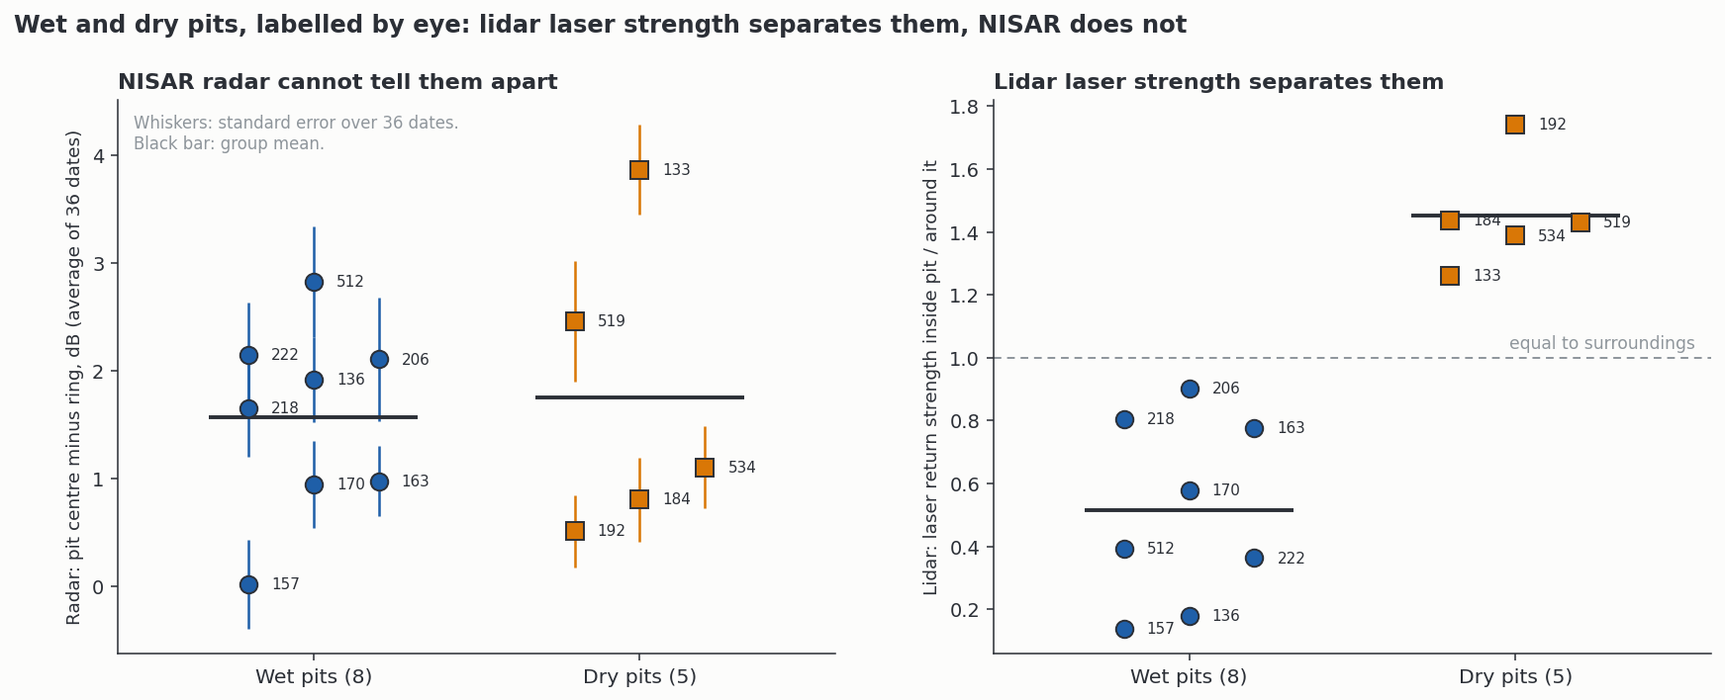
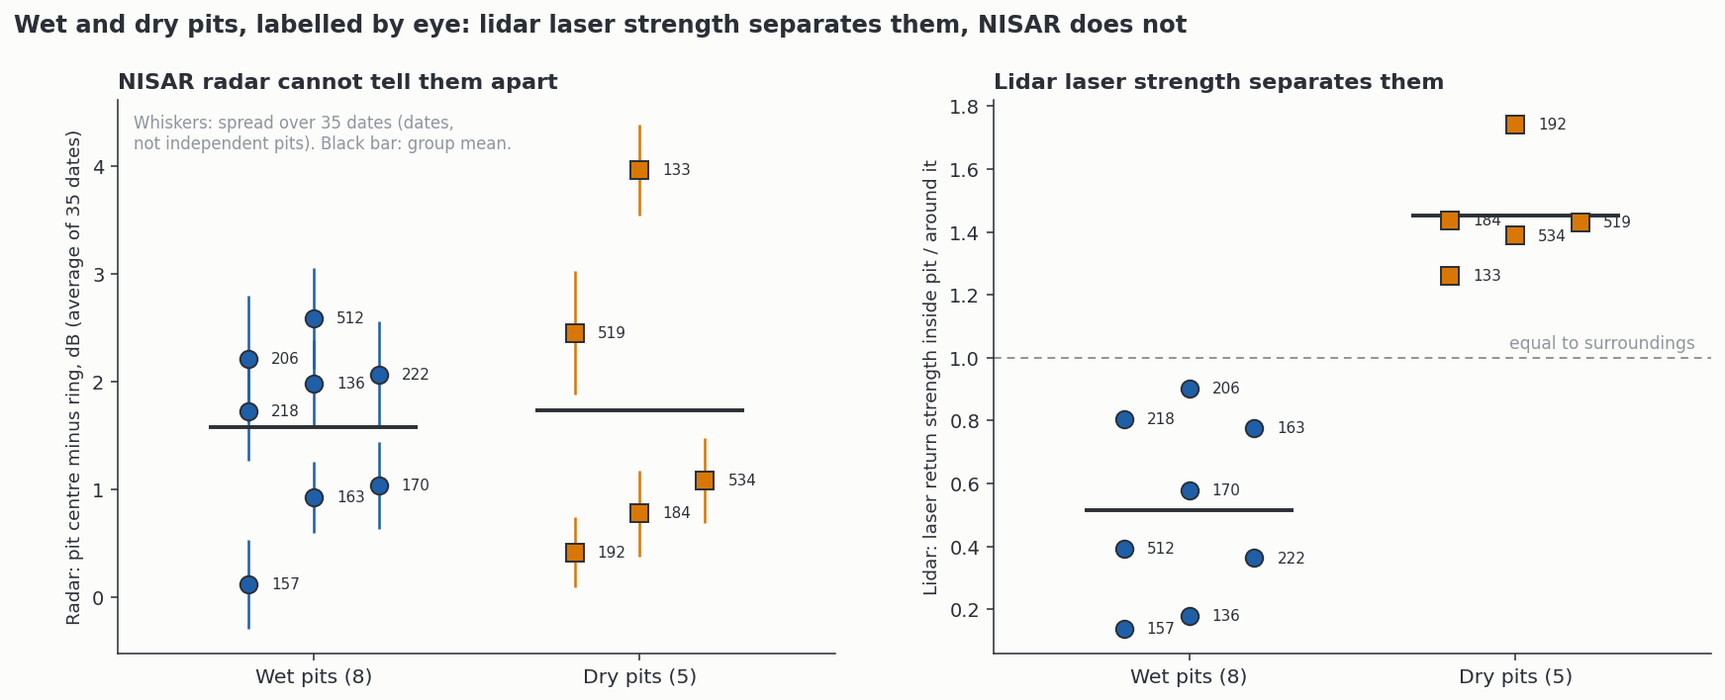
nisar: fixes from the 2026-11-09 outside review (bad-date readers, overstated wording, held-out interval)

diff --git a/nisar_writeup/_make_figures.py b/nisar_writeup/_make_figures.py
@@ -32,6 +32,13 @@ from rasterio.windows import from_bounds
 from scipy.stats import norm
 from shapely.geometry import box
 
+# Granules dropped from every stack. Same set as BAD_DATES in notebooks/wellsight_v2/_nisar_area.py.
+BAD_DATES = {("2026-07-22", 26), ("2026-09-08", 26)}
+
+
+def is_bad(date: str, track: int) -> bool:
+    return (str(date)[:10], int(track)) in BAD_DATES
+
 matplotlib.use("Agg")
 ROOT = Path(__file__).resolve().parents[1]
 OUT = ROOT / "nisar_writeup" / "figures"
@@ -83,7 +90,7 @@ def fig_ideas():
         ("2  A pad is a scar", "A cleared, levelled pad should return a different amount of energy than forest.",
          "Pads read slightly darker, but only because they are clearings. The effect did not survive a location check.", "weak"),
         ("3  Seasons differ", "Bare trees in winter, leaves in summer. A pit might change differently.",
-         "A change of about +0.2 dB. That is far smaller than the speckle in a single scene.", "weak"),
+         "About +0.2 dB against matched decoys within a season. The season-to-season change was not significant.", "weak"),
         ("4  Old wells move", "Radar phase can sense millimetres of ground motion between passes.",
          "Pit coherence was +0.0001 higher than decoys. Not one of 282 wells was flagged as moving.", "none"),
         ("5  Wet pits are dark", "Calm water reflects radar away from the satellite, so it should look dark.",
@@ -125,7 +132,7 @@ def fig_ideas():
         b.plot([0.03], [0.02], marker=mk, color=col, ms=9, mec=INK, mew=0.8, clip_on=False)
         b.text(0.09, 0.02, txt, fontsize=9, va="center", fontweight="bold")
     fig.subplots_adjust(left=0.02, right=0.99, top=0.88, bottom=0.03)
-    fig.suptitle("Five things we hoped the radar would show. None held up.", x=0.02, ha="left", fontsize=14, fontweight="bold")
+    fig.suptitle("Five things we hoped the radar would show. None was demonstrated.", x=0.02, ha="left", fontsize=14, fontweight="bold")
     save(fig, "nisar_five_ideas_9t.png")
 
 
@@ -192,6 +199,11 @@ def fig_views():
     axes[1].set_title("Lidar hillshade, 2019\n0.5 m pixels", fontsize=10.5)
     # NISAR
     files = sorted(glob.glob(str(ROOT / "data/9t/derived/nisar_slc_lidar_5m/nisar_slc_lidar_*_9t.tif")))
+    # nisar_slc_lidar_<yyyymmdd>_t<track><A|D>_9t.tif; drop the flagged granules
+    def _key(f):
+        p = Path(f).stem.split("_")
+        return f"{p[3][:4]}-{p[3][4:6]}-{p[3][6:]}", int(p[4][1:-1])
+    files = [f for f in files if not is_bad(*_key(f))]
 
     def hhdb(f):
         with rasterio.open(f) as s:
@@ -426,7 +438,7 @@ def fig_gain():
     ax.axvline(0, color=INK, lw=1.0)
     ax.axvline(0.05, color=ORANGE, lw=2.0, ls=(0, (5, 3)))
     ax.text(0.052, len(rows) - 0.35, "pre-set bar:\n+0.05", color=INK, fontsize=9.5, ha="left", va="bottom", fontweight="bold")
-    ax.text(0.0, len(rows) - 0.35, "no gain", fontsize=9.5, ha="center", va="bottom")
+    ax.text(0.0, len(rows) - 0.35, "zero", fontsize=9.5, ha="center", va="bottom")
     ax.set_xlim(-0.075, 0.13)
     ax.set_ylim(-0.7, len(rows) + 0.6)
     ax.set_yticks([])
@@ -472,13 +484,15 @@ def fig_r2():
 # ---------------------------------------------------------------- 11. wet vs dry
 def fig_wet_dry():
     d = pd.read_csv(ROOT / "data/9t/results/nisar/nisar_pit_wet_dry_db_9t.csv")
+    d = d[[not is_bad(a, b) for a, b in zip(d.date, d.track)]].dropna(subset=["db"])
+    n_dates = d.groupby(["date", "track"]).ngroups
     w = pd.read_csv(ROOT / "data/9t/results/pit/pit_inside_wet_intensity_9t.csv").set_index("pit_inside_id")
     g = d.groupby(["label", "pit"]).db.agg(["mean", "std", "count"]).reset_index()
     g["se"] = g["std"] / np.sqrt(g["count"])
     g["lidar"] = g.pit.map(w.int_ratio)
     fig, axes = plt.subplots(1, 2, figsize=(12.5, 5.2))
     rng = np.random.default_rng(3)
-    for ax, col, ylab, title in [(axes[0], "mean", "Radar: pit centre minus ring, dB (average of 36 dates)", "NISAR radar cannot tell them apart"),
+    for ax, col, ylab, title in [(axes[0], "mean", f"Radar: pit centre minus ring, dB (average of {n_dates} dates)", "NISAR radar cannot tell them apart"),
                                   (axes[1], "lidar", "Lidar: laser return strength inside pit / around it", "Lidar laser strength separates them")]:
         for k, lab in enumerate(["wet", "dry"]):
             s = g[g.label == lab]
@@ -500,7 +514,7 @@ def fig_wet_dry():
         ax.set_title(title, fontsize=11.5)
     axes[1].axhline(1.0, color=GREY, lw=1.0, ls=(0, (4, 3)))
     axes[1].text(1.55, 1.03, "equal to surroundings", ha="right", fontsize=8.8, color=GREY)
-    axes[0].text(-0.55, axes[0].get_ylim()[1] * 0.97, "Whiskers: standard error over 36 dates.\nBlack bar: group mean.", fontsize=8.5, color=GREY, va="top")
+    axes[0].text(-0.55, axes[0].get_ylim()[1] * 0.97, f"Whiskers: spread over {n_dates} dates (dates,\nnot independent pits). Black bar: group mean.", fontsize=8.5, color=GREY, va="top")
     fig.suptitle("Wet and dry pits, labelled by eye: lidar laser strength separates them, NISAR does not", x=0.01, ha="left", fontsize=12.5, fontweight="bold", y=1.0)
     fig.subplots_adjust(left=0.07, right=0.99, wspace=0.22)
     save(fig, "nisar_wet_vs_dry_pits_9t.png")
@@ -514,13 +528,13 @@ def fig_timeline():
         ("30 Sep", "31-date stack at 5 m, pads and pits against decoys", "n", "Result flips with a few metres of shift. Seasonal change adds nothing."),
         ("5 Oct", "Interferograms at 506 pits", "n", "Coherence +0.0001. Motion noise 7.5 mm for pits and decoys alike."),
         ("7 Oct", "Steel, pad change, slope motion", "n", "Wells 0.1 dB brighter than decoys. No well flagged as moving."),
-        ("9 to 13 Oct", "Radar placed 10 m off the lidar. Traced and fixed.", "f", "Error 10 m down to about 1 m. 46 of 48 blocks within 2.5 m."),
+        ("9 to 13 Oct", "Radar placed 10 m off the lidar. Traced and fixed.", "f", "Error 10 m down to about 1 m. 46 of 48 blocks within 2.5 m of the lidar simulation."),
         ("13 to 14 Oct", "All tests re-run on the corrected stack", "w", "Pad darkening gone. Pit leads (+0.2 dB) remain but are small."),
         ("19 to 21 Oct", "Review fixes, 40-decoy swap test, wells snapped to lidar", "n", "Pit leads of +0.2 dB held. Wells 0.7% against 0.9% for controls."),
         ("21 Oct", "Bright steady targets across tracks", "f", "Stable objects repeat 6 to 8 times chance. Chips on 28 Oct: buildings and bridges, not wells."),
         ("23 Oct", "Warren swath, 684 wells", "n", "Wells 3.9% against 5.2% for random pixels."),
         ("26 Oct", "303 radar features, then an outside audit", "n", "Early 0.71 to 0.88 was mostly place. Corrected: 0.48 to 0.64."),
-        ("27 Oct", "Follow-ups: where lidar is weak, against Sentinel-2", "n", "No gain over lidar or Sentinel-2. Radar tracks vegetation type."),
+        ("27 Oct", "Follow-ups: where lidar is weak, against Sentinel-2", "n", "No demonstrated gain over lidar or Sentinel-2. Radar tracks vegetation type."),
         ("28 Oct", "Leaf-off and snow dates", "f", "Only 3 NISAR dates are bare and snow-free. None in Feb to May."),
         ("29 Oct to 1 Nov", "Sentinel-1 early April, wet pits, the box", "n", "No bright steady return. Wet and dry pits overlap."),
     ]

diff --git a/nisar_writeup/_make_checkpoint_slides.py b/nisar_writeup/_make_checkpoint_slides.py
@@ -96,7 +96,7 @@ def slide1(s) -> None:
     set_para(ps[1], "Tile 9t in Venango County, PA. 20 km² of hardwood forest with 650 mapped well pads and "
                     "506 pits from 150 years of oil drilling.")
     set_para(ps[3], "Any rise or fall in HH or HV backscatter, or a drop in coherence, at pads and pits compared "
-                    "with matched forest nearby. It must be larger than the date-to-date speckle scatter.")
+                    "with matched forest nearby. Speckle is large on one date, so a small signal needs many repeat dates.")
     set_para(ps[5], "The 24 cm L-band wave passes through much of the canopy. Clearings, water and metal change "
                     "the echo, and 12-day repeats let speckle be averaged out.")
     notes(s, "About 1 minute 40 seconds. Read the question. The site is tile 9t in Venango County, 4.5 by 4.5 km of "
@@ -126,7 +126,7 @@ def slide2(s) -> None:
     notes(s, "About 1 minute 40 seconds. L-band because it is the band that best sees under leaves, and NISAR is "
              "the first free L-band mission with this revisit. I use the GSLC product, and the raw RSLC so I can "
              "place the image on lidar heights myself. Three tracks cover the tile, two ascending and one "
-             "descending, at 39 to 47 degrees incidence. 37 usable dates from October 2025 to October 2026. I "
+             "descending, at 39 to 47 degrees incidence. 37 dates delivered from October 2025 to October 2026, 35 usable after dropping an empty and a misplaced one. I "
              "check everything against our lidar maps of pads and pits, the state well records, and Sentinel-1 and "
              "Sentinel-2.")
 
@@ -155,7 +155,7 @@ def slide3(s) -> None:
               "Map x and y alone, or fake pads, score as high as the radar",
               "Decoys within 1.5 km and a placebo test"),
              ("Target smaller than a pixel. Single-look speckle on each date",
-              "Pit contrast below the date-to-date scatter",
+              "Pit contrast smaller than one-date speckle",
               "Average many dates. Use lidar intensity for wet pits")]
     tbl = shape(s, "Table 13").table
     for i, row in enumerate(risks, start=1):

diff --git a/notebooks/wellsight_v2/s5_eval/_nisar_signal_checks_9t.py b/notebooks/wellsight_v2/s5_eval/_nisar_signal_checks_9t.py
@@ -109,6 +109,8 @@ def lag_corr(z, mask_blocks, axis, lag):
 
 def main():
     idx = pd.read_csv(sorted(glob.glob(str(C.A.RSLC / "*index*.csv")))[0])
+    # same exclusions as every other stack (review 2026-11-09 found 2026-09-08 still read here)
+    idx = idx[[(str(d), int(t)) not in C.A.BAD_DATES for d, t in zip(idx.date, idx.track)]]
     rows = []
     for _, r in idx.iterrows():
         with h5py.File(C.A.RSLC / r.file) as h:

diff --git a/nisar_writeup/README.md b/nisar_writeup/README.md
@@ -24,7 +24,7 @@ This is the plain-language story of every NISAR test in the project. It says wha
 
 **The product.** We used the Level-2 GSLC product. Each pixel holds a complex number, so it carries both amplitude (strength) and phase (a fine distance measure). The pixels sit on a 5 m grid.
 
-**A pixel is not a clean 5 m measurement.** We measured the real sharpness of the images. The smallest thing they can separate is about 3.9 m by 5.7 m. Neighbouring pixels are correlated at 0.38. So a 5 m pixel is a blurred average over a patch a little bigger than itself.
+**A pixel is not a clean 5 m measurement.** We measured the real sharpness of the images. The smallest thing they can separate is about 3.9 m in slant range (about 5.3 to 6.2 m on the ground at 39 to 47 degrees incidence) by 5.7 m along track. Both come from bright uncontrolled scatterers, so treat them as rough. Neighbouring pixels are correlated at 0.38. So a 5 m pixel is a blurred average over a patch a little bigger than itself.
 
 **Speckle.** Radar echoes from many small scatterers add up with random phase. The result is a grainy image. A single pixel of ordinary ground varies from date to date, even though the ground has not changed. Any real signal must be bigger than that, or it must be averaged over many dates.
 
@@ -42,11 +42,11 @@ This figure is the most direct picture of the problem. The leaf-off aerial photo
 
 ## 2. The data we had
 
-We used NISAR GSLC scenes over tile 9t. The first was taken on 2025-10-28 and the last on 2026-10-14. That is 37 dates across three tracks.
+We used NISAR GSLC scenes over tile 9t. The first was taken on 2025-10-28 and the last on 2026-10-14. That is 37 dates across three tracks. 35 are usable after dropping one empty and one misplaced granule. The lidar-placed stack used for the corrected classifiers has 33 (8, 11 and 14 on tracks 26, 90 and 162), because two October dates came later.
 
 - **Beta products.** 11 dates from October 2025 to January 2026. Beta means the calibration was not finished.
-- **Provisional products.** 26 dates from June to October 2026. These are calibrated but not yet validated.
-- **Dropped.** Two track-26 granules (2026-07-22 and 2026-09-08) are misplaced or empty. We removed them everywhere.
+- **Provisional products.** 26 dates from June to October 2026. ASF describes these as fully calibrated and partly validated.
+- **Dropped.** Two track-26 granules (2026-07-22 and 2026-09-08) are misplaced or empty. The analysis stack and the corrected classifiers drop both. An outside review (2026-11-09) found three readers that still kept 2026-09-08: the wet/dry pit table, the averaged image in the three-sensor figure, and the signal-quality table. All three now drop it. The wet/dry conclusion does not change.
 
 Each GSLC file is about 22.6 GB. We did not download whole files. We read only the part that covers our tile, using HTTP range requests. Each saved window is about 9 MB.
 
@@ -81,7 +81,7 @@ L-band barely separates open ground from closed canopy at 5 m in our own control
 
 ![Placement fix](figures/nisar_placement_fix_9t.png)
 
-**The result.** The typical error fell from about 10 m to about 1 m. With a model of the forest echo, 46 of 48 blocks sit within 2.5 m on this tile. On the second tile (613590) it is 31 of 48, and the worst block is 29.7 m out. We checked the constants on half the blocks and tested them on the other half. All held.
+**The result.** The typical error fell from about 10 m to about 1 m. With a model of the forest echo, 46 of 48 blocks sit within 2.5 m on this tile. On the second tile (613590) it is 31 of 48, and the worst block is 29.7 m out. We fitted the constants on half the blocks and tested them on the other half. On 9t every held-out half passed. On 613590 they passed 6/8 and 3/8 on track 26, 5/8 and 5/8 on track 90, and 4/8 and 5/8 on track 162.
 
 **A limit.** The lidar simulation both supplies the offsets and scores the match. So these counts measure agreement with that simulation. They are not an independent measure of position. The independent test, with steady bright points and wells, found no peak, so position is not independently confirmed on either tile.
 
@@ -111,7 +111,7 @@ L-band barely separates open ground from closed canopy at 5 m in our own control
 
 **The idea.** Trees are bare in winter and leafy in summer. A pit might change by a different amount.
 
-**What we found.** We compared each pit with 40 matched decoy spots and used a swap test that keeps whole time series together. Pits showed a leaf-off HH fall of +0.25 dB and a leaf-on HV rise of +0.19 dB on tile 9t (p below 0.001). These are tiny next to the date-to-date speckle scatter. The pattern did not hold in the same way in the other areas. We treat it as a lead and not as a detection.
+**What we found.** We compared each pit with 40 matched decoy spots and used a swap test that keeps whole time series together. Within the leaf-off fall season, pits were +0.25 dB brighter in HH than their decoys. Within the leaf-on season they were +0.19 dB brighter in HV (swap test p below 0.001 for both, tile 9t). These are pit-versus-decoy contrasts inside one season, not a seasonal change. The tests of change between seasons were not significant (HH -0.10 dB, p 0.13; HV +0.05 dB, p 0.47). Season is also tangled with processing level (all winter dates are beta, all summer dates provisional), track and snow. A small contrast can sit below one-date speckle and still be detectable over many dates, so speckle alone does not rule it out. The pattern did not hold in the same way in the other areas. We treat it as a lead and not as a detection.
 
 ### 4.4 Old wells move
 
@@ -131,9 +131,9 @@ L-band barely separates open ground from closed canopy at 5 m in our own control
 
 ![Wet against dry](figures/nisar_wet_vs_dry_pits_9t.png)
 
-**What we found.** NISAR gave +1.57 dB for wet pits and +1.75 dB for dry. The groups overlap completely. The lidar ratio was 0.14 to 0.90 for wet pits and 1.26 to 1.74 for dry. Those two ranges do not touch.
+**What we found.** NISAR gave +1.58 dB for wet pits and +1.74 dB for dry, after dropping the flagged date (+1.57 and +1.75 before). The groups overlap completely. The lidar ratio was 0.14 to 0.90 for wet pits and 1.26 to 1.74 for dry. Those two ranges do not touch.
 
-**Limits.** There are only 13 pits and no held-out set. A cut at 1.0 is too loose. Across all 714 pit interiors it calls 258 of 503 measured pits wet. The grey zone from 0.8 to 1.2 needs your eyes in Google Earth. 211 pits fall outside the lidar tiles and could not be measured.
+**Limits.** There are only 13 pits and no held-out set. The wet and dry labels come from one look at 2019-era imagery and lidar, and pit 512 was labelled from a lidar cross-section, so the lidar result is not independent of its labels. The radar dates are 2025 to 2026, so a pit wet in the reference may not be wet on every radar date. Removing pit 512 leaves the lidar ranges still apart. A cut at 1.0 is too loose. Across all 714 pit interiors it calls 258 of 502 measured pits wet. The grey zone from 0.8 to 1.2 needs your eyes in Google Earth. 211 pits fall outside the lidar tiles and could not be measured.
 
 ## 5. Why the early scores looked good
 
@@ -158,13 +158,13 @@ At the start the pad score looked impressive. Several early runs gave an AUC of 
 
 ## 6. Does the radar add anything to lidar?
 
-**The bar.** Before the main runs we set a rule. NISAR plus a rich lidar model had to beat the lidar model alone by 0.05 in AUC. A limit of this rule: the rich lidar model already scores 0.917 on pads and 0.968 on pits on 9t, so on pits a gain of 0.05 was arithmetically impossible there (it would need 1.018). On 9t pits, "no gain" cannot be told apart from "no room". The test that can is the held-out one on 613590 (lidar 0.884, gain -0.017, upper 95% bound about +0.015 to +0.018 by an outside re-analysis), which excludes +0.05 for pits on that tile. For pads there is no held-out test.
+**The bar.** Before the main runs we set a rule. NISAR plus a rich lidar model had to beat the lidar model alone by 0.05 in AUC. A limit of this rule: the rich lidar model already scores 0.917 on pads and 0.968 on pits on 9t, so on pits a gain of 0.05 was arithmetically impossible there (it would need 1.018). On 9t pits, "no gain" cannot be told apart from "no room". The test that can is the held-out one on 613590 (lidar 0.881, gain -0.017, block bootstrap 95% interval -0.055 to +0.020, reproduced from saved predictions), which excludes +0.05 for pits on that tile. For pads there is no held-out test.
 
 **The tests.** We tried every place where lidar might be weak. These were pads the lidar U-Net missed, pads under canopy, the weakest quarter of pads, a second tile with frozen models, and a comparison with free Sentinel-2 imagery.
 
 ![Gain over lidar](figures/nisar_gain_over_lidar_9t.png)
 
-**What we found.** No estimate reached 0.05. The best, in the lidar-weak quarter, was +0.015, and it came from the design that rewards location. Free Sentinel-2 did as well as the radar or better (0.840 against 0.622 on matched decoys). Fusing the radar with the U-Net gave 0.995 against 0.999 for the U-Net alone. That test is capped by the U-Net's near-perfect score. On the second tile the three predictions we wrote down before the run all held.
+**What we found.** No estimate reached 0.05. The best, in the lidar-weak quarter, was +0.015, and it came from the design that rewards location. Free Sentinel-2 did as well as the radar or better (0.840 against 0.622 on matched decoys). Fusing the radar with the U-Net gave 0.995 against 0.999 for the U-Net alone. That test is capped by the U-Net's near-perfect score. On the second tile the three predictions we wrote down before the run all held. Two caveats. Pits on that tile had been scored by earlier tests before the pre-registration, so it was pre-registered for this classifier only. And the saved row-level predictions come from a rerun on 2026-11-03 that reproduces the original numbers exactly; the original rows were not kept.
 
 **What is not excluded.** Two tests have few samples (60 pads and 36 pits), so their intervals are wide. A gain of 0.06 to 0.12 cannot be ruled out there. The honest reading is that we found no reliable gain and did not prove there is none.
 
@@ -221,7 +221,7 @@ For the box, lidar and aerial photos are the right tools. The lidar at your firs
 | Ascending, descending | Flying north or south. |
 | GSLC | NISAR product on a map grid with amplitude and phase. |
 | RSLC | The same data before it is placed on a map grid. |
-| Beta, provisional | Early NISAR releases. Not fully calibrated or validated. |
+| Beta, provisional | Early NISAR releases. Beta is not fully calibrated. Provisional is fully calibrated and partly validated (ASF). Validated products started 2026-11-06 for new acquisitions; reprocessing of older dates is scheduled for 2027. |
 | Speckle | Random grain in radar images from many small scatterers. |
 | Coherence | How stable the echo stays between two dates. 1 is perfect. |
 | Interferogram | The phase difference between two dates. It senses small motion. |

diff --git a/NISAR_METHODS.md b/NISAR_METHODS.md
@@ -12,7 +12,7 @@ Written 2026-10-26, revised the same day after two outside reviews (Section 14).
 - NISAR does not identify wells, pumpjacks or steel. Every direct test of that was null.
 - NISAR did not help screen false positives from the lidar pit detector (gain -0.026, p 0.58), nor from the pad detector (Section 15: NISAR alone separates true from false candidates at 0.72, but score + NISAR scores below the score alone).
 - The fusion with the lidar U-Net was redone with an isolated retrain. NISAR adds nothing (0.995 against 0.999).
-- A frozen model trained on 9t pits and tested on 36 pits of tile 613590 gave the same answer (NISAR alone 0.658, no gain over lidar).
+- A frozen model trained on 9t pits and tested on 36 pits of tile 613590 gave the same answer (NISAR alone 0.658 with a 95% interval of 0.47 to 0.82; gain over lidar -0.017, 95% -0.055 to +0.020, so no demonstrated gain and +0.05 excluded for these pits).
 - This does not show NISAR can never help. It shows that here, with a 4.5 km lidar tile (4.9 km NISAR window), 5 m posting and these features, it does not.
 
 AUC here is P(target value > comparison value). 0.5 is no separation. Below 0.5 means the target is lower.
@@ -22,7 +22,7 @@ AUC here is P(target value > comparison value). 0.5 is no separation. Below 0.5 
 | Area tag | Place | Role |
 |---|---|---|
 | `9t` | Venango County, PA. A 4.5 km square (EPSG:6346 bounds 619500, 4593000 to 624000, 4597500). | Every scored result. |
-| `613590`, `mkf` | Two other lidar areas. | Data-extension plan only (`docs/iterations/nisar_area_extension_613590_mkf.md`). No scored result. |
+| `613590`, `mkf` | Two other lidar areas. | 613590: held-out pit test scored (36 pits, `docs/iterations/nisar_heldout_613590_prereg.md`). mkf: data extension and early tests only (`docs/iterations/nisar_area_extension_613590_mkf.md`). |
 | `warren` | Warren County swath, 7 USGS lidar tiles. | Bright-target test against DEP wells only. No pad annotations, so no pad scoring. |
 
 **Ground truth on 9t** (`qgis/annotations/annotations_proj.gpkg`):
@@ -36,7 +36,7 @@ AUC here is P(target value > comparison value). 0.5 is no separation. Below 0.5 
 
 ## 3. The NISAR data
 
-**Product.** NISAR (NASA-ISRO SAR), L-band (24 cm wavelength, 1.257 GHz), left-looking. Files come from the ASF DAAC cloud. Collections are `NISAR_L2_GSLC_BETA_V1` and the provisional equivalent, and `NISAR_L1_RSLC_BETA_V1` and `..._PROVISIONAL_V1`. **Neither is validated or fully calibrated.** Beta and provisional processing differ in calibration, which shows up as per-track brightness offsets (Section 7).
+**Product.** NISAR (NASA-ISRO SAR), L-band (24 cm wavelength; these granules are centred at 1.239 GHz with 40 MHz bandwidth, the value used for phase conversion), left-looking. Files come from the ASF DAAC cloud. Collections are `NISAR_L2_GSLC_BETA_V1` and the provisional equivalent, and `NISAR_L1_RSLC_BETA_V1` and `..._PROVISIONAL_V1`. **Neither is validated or fully calibrated.** Beta and provisional processing differ in calibration, which shows up as per-track brightness offsets (Section 7).
 
 **Polarisations.** HH and HV only. There is no VV, so full quad-pol decomposition is not possible. The "dual-pol" features are the HH/HV ones.
 
@@ -413,7 +413,7 @@ Write-up with every table: `docs/iterations/nisar_checks_9t.md`. Pre-registratio
 | Repeated CV (10 repeats), block-clustered band tests | Gain over lidar -0.01 to +0.003. Significant pad bands fall from 229 (naive) to 20 (clustered), and local-decoy bands from 137 to 0. |
 | Isolated U-Net retrain | Recall at IoU 0.3 is 0.872 against 0.888 for the original sampler (F1 about 0.705 for the isolated model; 0.888 is a recall, corrected 2026-10-27). Fusion: NISAR + U-Net 0.995 against U-Net 0.999. |
 | Pad false-positive screen on U-Net candidates | NISAR alone separates true from false (0.72, tau 0.3). Score + NISAR 0.831 against score 0.849. Precision at 70% recall +0.034 (-0.008 to +0.061). |
-| Signal quality | Single-look speckle (ENL about 0.85), neighbour correlation 0.38, impulse response 3.9 m (slant range) by 5.7 m (azimuth), occupied bandwidth 31 to 33 MHz, no RFI. |
+| Signal quality | Single-look speckle (ENL about 0.85), neighbour correlation 0.38, impulse response 3.9 m (slant range) by 5.7 m (azimuth), occupied bandwidth 31 to 33 MHz. Relative spectral-outlier flags on 1 HH and 5 HV windows. These are not proof of RFI, and RFI is not ruled out. |
 | Per-date radiometric normalisation | HV date offsets sd 1.1 to 1.8 dB. Normalising changes no AUC by more than 0.015. |
 | LOS motion | Kept exploratory. Removing the group changes AUC by -0.005 and +0.010. |
 

diff --git a/NISAR_FINDINGS.md b/NISAR_FINDINGS.md
@@ -25,8 +25,8 @@ The radar varies more with optical vegetation indices than with lidar canopy hei
 - **Radar.** NISAR L-band (24 cm wavelength, 1.257 GHz), left-looking. No S-band data is used.
 - **Products.** L2 GSLC and SLC at 5 m, HH and HV polarisation. Tracks 26, 90 and 162, with 8, 11 and 14 dates.
 - **Area.** Tile 9t, Venango County. The lidar tile is 4.5 km square (619500 to 624000 E, 4593000 to 4597500 N, EPSG:6346). The NISAR window cut around it is 4.9 km square (EPSG:32617). Older text that says a 4.9 km tile means the NISAR window. A second tile, 613590, was used for one held-out test.
-- **Status of the data.** Beta and provisional products. They are not validated or fully calibrated.
-- **Registration.** The radar sits about 10 m off the lidar.
+- **Status of the data.** Beta (not fully calibrated) and provisional (fully calibrated, partly validated, per ASF). Mixing the two levels is a known risk. Validated reprocessing of these dates is scheduled for 2027.
+- **Registration.** The NASA product sat about 10 m off the lidar. After placing the radar on lidar heights, 46 of 48 blocks on 9t and 31 of 48 on 613590 agree within 2.5 m with a lidar simulation. That is agreement with the simulation, not an independent check of position.
 
 ## How results are scored
 
@@ -64,7 +64,7 @@ The radar varies more with optical vegetation indices than with lidar canopy hei
 - A frozen model trained on 9t pits was tested on 36 pits of tile 613590. NISAR alone scored 0.658, rich lidar 0.881 and the combination 0.865. The gate failed.
 - The gain over rich lidar was -0.017, with a bootstrap interval of -0.055 to +0.020. The gate of +0.05 was not met, and a smaller gain is not excluded.
 - Rich lidar at 0.881 left room for the gate, so this is the one test that could clearly fail.
-- The three predictions written before the run all held. The pre-registration is `docs/iterations/nisar_heldout_613590_prereg.md`.
+- The three predictions written before the run all held. The pre-registration covers this classifier only, since 613590 pits had been scored by earlier tests. Saved row predictions are a 2026-11-03 rerun that reproduces the original numbers. Gain -0.017, block bootstrap 95% -0.055 to +0.020. This excludes +0.05 for these 36 pits. It is not proof of equivalence or a bound for other regions. The pre-registration is `docs/iterations/nisar_heldout_613590_prereg.md`.
 - There is no pad held-out test, because 613590 has no pad annotations.
 
 ### 3. Combining radar and lidar
@@ -163,7 +163,7 @@ Tables, scripts and reproduce commands: `docs/iterations/nisar_followup_checks_9
 ### 6. Signal quality
 
 - The data are single-look speckle (equivalent number of looks about 0.85). Neighbouring pixels correlate at 0.38.
-- The impulse response is 3.9 m in slant range by 5.7 m in azimuth.
+- The impulse response is 3.9 m in slant range (about 5.3 to 6.2 m on the ground) by 5.7 m in azimuth, from bright uncontrolled scatterers.
 - Occupied bandwidth is 31 to 33 MHz against a nominal 40 MHz. We found no radio interference.
 - Per-date HV offsets have a standard deviation of 1.1 to 1.8 dB between dates. Normalising each date changes no AUC by more than 0.015.
 - Line-of-sight motion was kept exploratory. Removing it changes AUC by -0.005 and +0.010.

diff --git a/docs/iterations/nisar_checks_9t.md b/docs/iterations/nisar_checks_9t.md
@@ -13,7 +13,7 @@ This closes the list in `docs/iterations/BACKLOG.md` ("NISAR outstanding checks 
 | 5 | Frozen run on 613590 | All three pre-registered predictions held. Gate failed. Pits only. |
 | 6 | Repeated CV, cluster-aware tests | Gain of NISAR over lidar is -0.01 to +0.003 with sd 0.004 to 0.012. Clustered tests cut the significant pad bands from 229 to 20. |
 | 7 | U-Net retrain with whole-window isolation, fusion | Isolation costs 2 points of recall. NISAR adds nothing to the U-Net (0.995 against 0.999). |
-| 8 | Effective looks, impulse response, RFI, noise floor, per-date normalisation | Single-look speckle, no RFI, normalisation changes nothing. |
+| 8 | Effective looks, impulse response, RFI, noise floor, per-date normalisation | Single-look speckle, a few relative spectral-outlier flags (not proof of RFI), normalisation changes no AUC by more than 0.015. |
 | 9 | Precision at fixed recall, pad false-positive screen | NISAR alone separates true from false candidates (0.72) but adds nothing to the detector score. |
 | 10 | LOS motion | Kept as exploratory. It carries no weight in any result. |
 
@@ -88,7 +88,7 @@ With local decoys every group is near 0.5 for NISAR (0.45 to 0.54). No group is 
 
 ## 5. Frozen held-out test on 613590 (pre-registered)
 
-The pre-registration, `nisar_heldout_613590_prereg.md`, was committed before any 613590 sample was scored. The model was trained on all 9t pit samples. The 613590 tile has 36 annotated pits and **no annotated pad**, so pads could not be tested.
+The pre-registration, `nisar_heldout_613590_prereg.md`, was committed before this classifier scored any 613590 sample (commit a8a38c0, results 30cccb8). Earlier tests in October had already scored 613590 pits, so it is not pre-registration for the area as a whole. The model was trained on all 9t pit samples. The 613590 tile has 36 annotated pits and **no annotated pad**, so pads could not be tested.
 
 | Model AUC on 613590 pits (36 pits, 360 decoys, 51 blocks) | AUC (block bootstrap 95%) |
 |---|---|
@@ -183,7 +183,7 @@ Candidates are the connected regions of the isolated U-Net's out-of-fold probabi
 
 ## 8. Signal quality (`_nisar_signal_checks_9t.py`, `_nisar_feat_radnorm_9t.py`)
 
-Measured on the 35 RSLC windows and the lidar-placed stack. Files: `nisar_signal_checks_per_window_9t_slc.csv`, `nisar_signal_checks_by_track_9t_slc.csv`, `nisar_radnorm_*_9t_slc*.csv`.
+Measured on the 35 RSLC windows and the lidar-placed stack. Files: `nisar_signal_checks_per_window_9t_slc.csv`, `nisar_signal_checks_by_track_9t_slc.csv`, `nisar_radnorm_*_9t_slc*.csv`. Rerun 2026-11-09 without the flagged 2026-09-08 granule (track 26 now 8 windows, outlier flags unchanged at 1 HH and 5 HV): `nisar_signal_checks_per_window_9t.csv`, `nisar_signal_checks_by_track_9t.csv`. The `_slc` files are the 2026-10-27 originals, kept for history.
 
 | Quantity | Track 26 | Track 90 | Track 162 |
 |---|---|---|---|

diff --git a/docs/analysis_log.md b/docs/analysis_log.md
@@ -5,6 +5,12 @@ result. Newest entries at the top. Per `Claude.md` reporting rule.
 
 ---
 
+## 2026-11-09 NISAR: fixes from the second outside review (`tmp/nisar_adversarial_20261109/REPORT.md`)
+
+- Bad-date readers. `_nisar_signal_checks_9t.py` now drops `BAD_DATES` (rerun: `data/9t/results/nisar/nisar_signal_checks_per_window_9t.csv`, `..._by_track_9t.csv`; track 26 has 8 windows; flags unchanged). `nisar_writeup/_make_figures.py` drops them from the three-sensor mean and the wet/dry figure (wet/dry now +1.58 / +1.74 dB, was +1.57 / +1.75; still overlapping). The wet/dry CSV generator is not in the repo, so the CSV itself is unchanged and filtered at read time.
+- Wording. README, `NISAR_FINDINGS.md`, `NISAR_METHODS.md`, `nisar_checks_9t.md`, the pre-registration (dated correction note), the 2026-11-03 review response (correction section), the slides and the figures: seasonal numbers described as within-season contrasts with the non-significant change tests; 37 delivered / 35 usable / 33 corrected dates; "All held" replaced by the 613590 half-block counts; beta vs provisional calibration per ASF; impulse response in slant range and ground range; 1.239 GHz; "no RFI" replaced by outlier flags; held-out interval -0.055 to +0.020 from saved predictions; pre-registration scope; dedupe folds not fixed; 502 not 503 ratios; speckle not a hard floor; "None held up" now "None was demonstrated".
+- Regenerated `nisar_writeup/figures/*.png` and `nisar_writeup/nisar_checkpoint_slides_9t.pptx`. No model was refit.
+
 ## 2026-11-09 Prior-work citations: Ramachandran 2024 and the NETL Oil Creek lidar papers
 
 - Added to `literature/CITATIONS.md`: Ramachandran et al. 2024 (PDF downloaded to `literature/papers/ramachandran_2024_well_pads_satellite_dl.pdf`), Saint-Vincent et al. 2021, the Sams et al. Pioneer Run drone lidar poster (OSTI 1569995), Reeder et al., Gorantla et al., Saint-Vincent et al. 2020. NETL PDFs stay in `data/_source/reference/literature/`.

diff --git a/docs/iterations/outside_review_response_20261103.md b/docs/iterations/outside_review_response_20261103.md
@@ -170,3 +170,10 @@ Sheets: `data/9t/results/change/sheets/change_evidence_sheet_anthropogenic_1_9t_
 | new | 372, 802, 817, 49, 664 | Broad diffuse tints without morphology. Not earthwork. |
 
 So the rebuild removed some of the seam patches (20, 114, most of 109 and 786) and not others (391). It did not create new convincing earthwork. Patches 810 and 1277 are the two to send for independent confirmation.
+
+
+## Correction 2026-11-09 (second outside review, `tmp/nisar_adversarial_20261109/REPORT.md`)
+
+- **Duplicate decoys row.** `_nisar_feat_dedupe_9t.py` keys on centre plus footprint size, not centre alone, and calls `GroupKFold` again after dropping rows, so folds were not held fixed (1,327 changed same-fold pit block pairs). The AUC shifts it reports (pits 0.829 to 0.765, local pads 0.479 to 0.601) are real but cannot be attributed to duplicate removal alone. Gains over lidar stay small and negative in both versions.
+- **Held-out bound.** "Every resampling gives an upper 95% bound of +0.018 or less" is documented only. The reproducible block bootstrap from saved predictions gives +0.0198. The conclusion that +0.05 is excluded for these 36 pits stands.
+- **Bad dates.** The wet/dry table, the three-sensor illustrative mean and the signal-quality table still read 2026-09-08. Fixed 2026-11-09.

diff --git a/docs/iterations/nisar_heldout_613590_prereg.md b/docs/iterations/nisar_heldout_613590_prereg.md
@@ -2,6 +2,8 @@
 
 This file was written and committed before any 613590 sample was scored. Its purpose is to fix the model, the test set, the predictions and the decision rule in advance.
 
+> **Correction 2026-11-09 (outside review).** The sentence above is too broad. This file (commit a8a38c0, 2026-10-27 09:33) preceded this classifier's results (30cccb8, 12:21 the same day), but earlier October tests had already scored 613590 pits. Read it as pre-registration of this classifier experiment only. The authoritative interval is the block bootstrap from the saved predictions: gain -0.016744, 95% -0.054676 to +0.019843 (lidar 0.881404). The outside re-analysis bounds below (+0.015 to +0.018) could not be reproduced from saved files and are documented only.
+
 ## Question
 
 Does a NISAR model trained on 9t transfer to a different tile, and does it add to a lidar model there?
